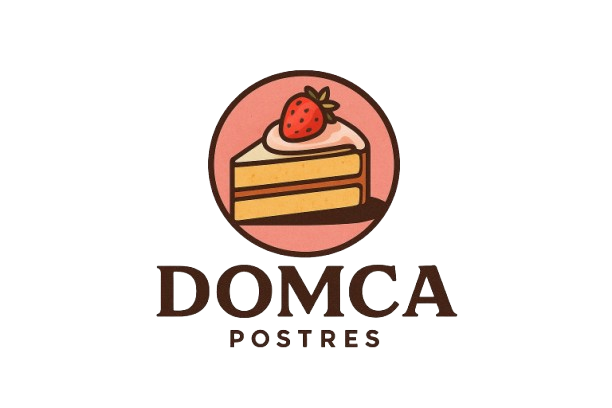
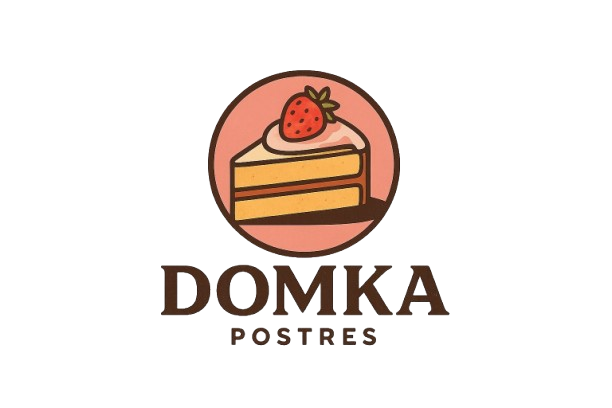
terminado

diff --git a/index.html b/index.html
@@ -48,7 +48,7 @@
     <div class="row">
       <div class="col-3"></div>
       <div class="col-6">
-    <h1 class="fw-bold text-danger">PASTELERÍA DONKA</h1>
+    <h1 class="fw-bold text-danger">PASTELERÍA DOMKsA</h1>
     <p class="lead mt-3">
       Nos especializamos en la elaboración y venta de pasteles y postres artesanales, 
       combinando creatividad y tradición en cada receta. Estamos ubicados en el comercial
@@ -70,8 +70,8 @@
 
   <footer class="bg-dark text-light text-center py-4 mt-5">
     <p class="mb-1 fw-bold">Redes Sociales</p>
-    <p class="mb-0">Instagram: <a href="#" class="text-danger text-decoration-none">Pasteleria_Donka_GT</a></p>
-    <p class="mb-0">Facebook: <a href="#" class="text-danger text-decoration-none">Pasteleria Donka</a></p>
+    <p class="mb-0">Instagram: <a href="#" class="text-danger text-decoration-none">Pasteleria_Domka_GT</a></p>
+    <p class="mb-0">Facebook: <a href="#" class="text-danger text-decoration-none">Pasteleria Domka</a></p>
     <p class="mb-0">&copy; Pasteleria Donka. Derechos Reservados 2025</p>
   </footer>
 

diff --git a/especialidades.html b/especialidades.html
@@ -69,12 +69,11 @@
 
   <footer class="bg-dark text-light text-center py-4 mt-5">
     <p class="mb-1 fw-bold">Redes Sociales</p>
-    <p class="mb-0">Instagram: <a href="#" class="text-danger text-decoration-none">Pasteleria_Donka_GT</a></p>
-    <p class="mb-0">Facebook: <a href="#" class="text-danger text-decoration-none">Pasteleria Donka</a></p>
+    <p class="mb-0">Instagram: <a href="#" class="text-danger text-decoration-none">Pasteleria_Domka_GT</a></p>
+    <p class="mb-0">Facebook: <a href="#" class="text-danger text-decoration-none">Pasteleria Domka</a></p>
     <p class="mb-0">&copy; Pasteleria Donka. Derechos Reservados 2025</p>
   </footer>
-
-
+  
   <script src="https://cdn.jsdelivr.net/npm/bootstrap@5.3.2/dist/js/bootstrap.bundle.min.js"></script>
 </body>
 </html>

diff --git a/info.html b/info.html
@@ -77,7 +77,17 @@
 </div>
 </div> <br> <br> <br> <br> 
 
+ <footer class="bg-dark text-light text-center py-4 mt-5">
+    <p class="mb-1 fw-bold">Redes Sociales</p>
+    <p class="mb-0">Instagram: <a href="#" class="text-danger text-decoration-none">Pasteleria_Domka_GT</a></p>
+    <p class="mb-0">Facebook: <a href="#" class="text-danger text-decoration-none">Pasteleria Domka</a></p>
+    <p class="mb-0">&copy; Pasteleria Donka. Derechos Reservados 2025</p>
+  </footer>
 
+
+  <script src="https://cdn.jsdelivr.net/npm/bootstrap@5.3.2/dist/js/bootstrap.bundle.min.js"></script>
+</body>
+</html>
 
 
 

diff --git a/producto.html b/producto.html
@@ -71,6 +71,12 @@
   </div>
   </div>
   </div>
+   <footer class="bg-dark text-light text-center py-4 mt-5">
+    <p class="mb-1 fw-bold">Redes Sociales</p>
+    <p class="mb-0">Instagram: <a href="#" class="text-danger text-decoration-none">Pasteleria_Domka_GT</a></p>
+    <p class="mb-0">Facebook: <a href="#" class="text-danger text-decoration-none">Pasteleria Domka</a></p>
+    <p class="mb-0">&copy; Pasteleria Donka. Derechos Reservados 2025</p>
+  </footer>
    <script src="https://cdn.jsdelivr.net/npm/bootstrap@5.3.2/dist/js/bootstrap.bundle.min.js"></script>
 </body>
 </html>

diff --git a/promociones.html b/promociones.html
@@ -75,6 +75,12 @@
     </div>
   </div>
 </div>
+ <footer class="bg-dark text-light text-center py-4 mt-5">
+    <p class="mb-1 fw-bold">Redes Sociales</p>
+    <p class="mb-0">Instagram: <a href="#" class="text-danger text-decoration-none">Pasteleria_Domka_GT</a></p>
+    <p class="mb-0">Facebook: <a href="#" class="text-danger text-decoration-none">Pasteleria Domka</a></p>
+    <p class="mb-0">&copy; Pasteleria Donka. Derechos Reservados 2025</p>
+  </footer>
    <script src="https://cdn.jsdelivr.net/npm/bootstrap@5.3.2/dist/js/bootstrap.bundle.min.js"></script>
 </body>
 </html>
